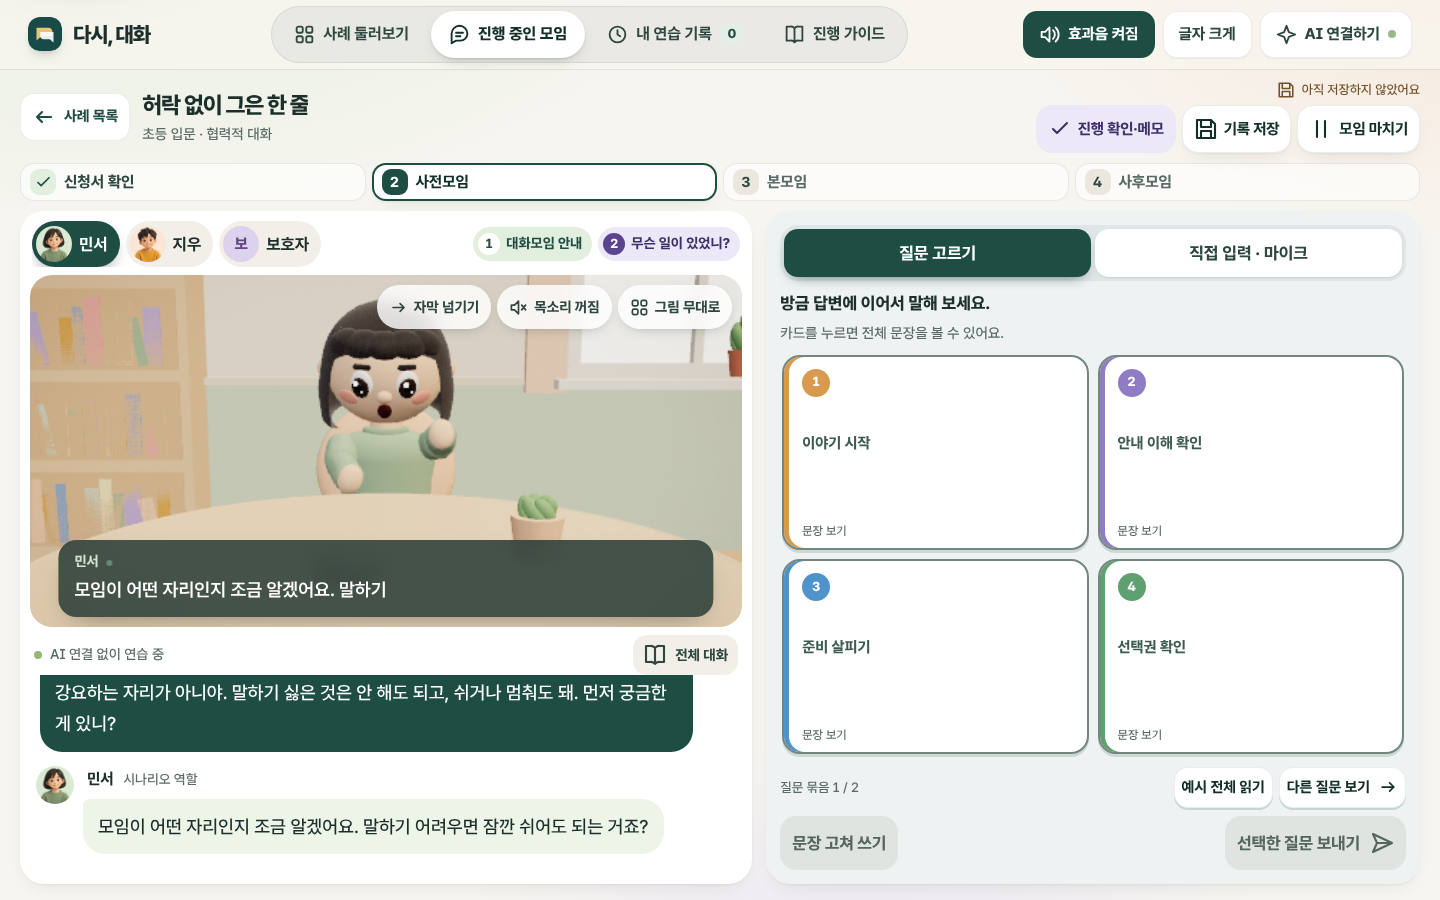
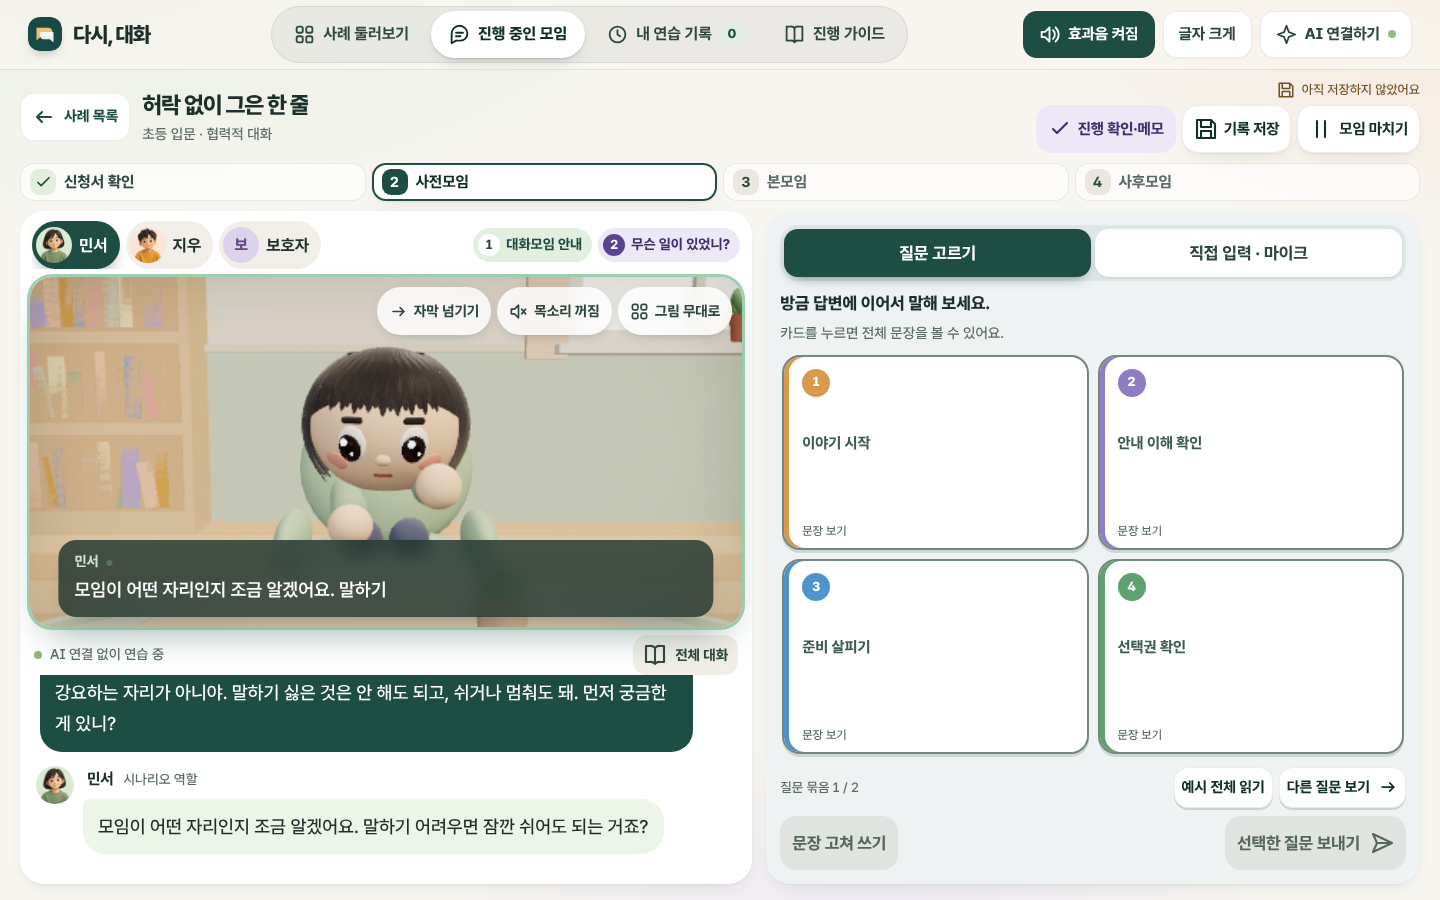
docs: v0.5.0 notes, verification record and fresh screenshots
Claude-Session: https://claude.ai/code/session_018JbLAfXJCc6pfJksY4qfVm

Changed region(s): [[0.0, 0.2489, 0.5312, 0.7156]]

diff --git a/public/version.js b/public/version.js
@@ -1,1 +1,1 @@
-export const VERSION='0.4.0';
+export const VERSION='0.5.0';

diff --git a/docs/VERIFICATION.md b/docs/VERIFICATION.md
@@ -186,3 +186,11 @@
 - 발견해 고친 문제: 3D를 불러오는 동안 사례 목록을 떠나면 크기 0인 화면에 그리며 그래픽 오류가 쏟아져 다음 탐색이 멈춤 → 크기·연결 확인 후에만 그리고, 멈춘 동안 반복을 끊음. 1초가 넘는 프레임을 화질 판단에서 빼서 아주 느린 기기가 화질을 낮추지 못함 → 4초까지 셈.
 - 최종 검토(별도 검토자)에서 찾아 고친 것, 각각 실패하는 검사를 먼저 쓰고 통과시킴: 같은 사례로 새 연습·재개 시 이전 자막·감정이 남음, 3D를 불러오는 사이 그림 무대로 바꾸면 늦게 끝난 3D가 덮어씀, 그림 무대에서 얼굴 윗부분이 잘리고 버튼·자막이 얼굴을 가림(1366×768·1280×720·390·360px), AI 오류 뒤 무대가 "생각 중"에 멈추고 지운 문장이 자막에 남음, 목소리가 누름 밖에서 시작해 iPad에서 막힐 수 있음(누르는 순간 소리 없는 문장으로 음성을 열어 둠), 무대 오류가 앱으로 번질 수 있음, 무대·얼굴 버튼이 44–46px(48px 이상으로)·휴대전화에서 보호자 버튼이 잘림. 긴 답 검사는 실제 3000자로 고침.
 - 한계: SwiftShader는 실제 GPU보다 훨씬 느리므로 "자동" 설정에서는 이 환경의 3D가 곧 그림 무대로 바뀝니다(설계대로의 동작). 3D 검사는 `켜기` 설정이나 실험실의 `noslow`로 실행했습니다. 실제 크롬북·태블릿의 속도, 실제 스피커로 들은 목소리, 실제 AI가 고른 감정의 품질은 확인하지 않았습니다.
+
+## v0.5.0 — 2등신 캐릭터·섬세한 머리카락·살아 있는 화면
+
+- Node 검사 49개 통과. 새로 추가: 7종 모두 2등신(머리+몸 높이 ÷ 머리 높이가 1.8–2.3, 초등 1.97·어른 2.24), 팔은 한 덩어리이며 머리보다 짧음, 머리카락은 둥근 덩어리 없이 가는 가닥 끝 6개 이상.
+- 기존 브라우저 검사 7개 통과(`desktop-room.mjs` 40개 상태 포함). 버튼에 빛이 스치는 효과가 버튼 밖으로 넘치는 문제를 발견해 배경 위치 애니메이션으로 바꿈.
+- `stage-browser.mjs`의 캐릭터(빠른 실행), 장면, 감독, 다듬기, 사례 목록, 연습실, 최종 검토 항목, 새 "살아 있는 무대"(마우스를 따라 보기 — 왼쪽·오른쪽·벗어남, 글을 쓰는 동안 듣기 후 2.5초 뒤 대기) 통과.
+- 생김새 6종과 감정, 첫 화면, 연습실(PC·휴대전화) 화면 사진을 육안 검토.
+- 한계: 이 환경의 소프트웨어 그래픽(SwiftShader)에서는 "자동" 설정의 첫 화면 3D가 몇 초 뒤 느린 기기로 판단되어 삽화로 바뀝니다(설계대로). 실제 기기의 속도는 확인하지 않았습니다.

diff --git a/CHANGELOG.md b/CHANGELOG.md
@@ -1,5 +1,14 @@
 # 변경 기록
 
+## 0.5.0 — 2026-11-19
+
+- 캐릭터를 2등신(머리 하나에 몸 하나)으로 바꿈. 팔꿈치 마디 없이 한 덩어리로 움직이는 짧고 부드러운 팔, 콩 모양 몸통, 목 없이 이어진 큰 머리와 얼굴 아래쪽의 큰 눈.
+- 머리카락을 둥근 덩어리 대신 머리 모양을 따라 붙는 얇은 층으로 다시 만듦. 앞머리·옆머리·뒷머리가 겹치고 끝이 가늘고 고르지 않은 가닥으로 갈라지며, 머리카락 결무늬를 넣음.
+- 대화실을 낮은 찻상과 둥근 안락의자로 바꿔 작은 몸에서도 팔짱·움츠림이 보이게 함(기존 삽화와 같은 구성).
+- 캐릭터가 마우스를 따라 바라보고, 선생님이 글을 쓰거나 질문 카드를 고르면 몸을 기울여 들음. 무대 테두리가 말하는 중에는 초록, 듣는 중에는 연보라로 빛남.
+- 첫 화면을 몰입형으로: 3D 대화실이 첫 카드 전체를 채우고 문구가 그 위에 떠 있음. 사례 카드는 마우스를 따라 기울며 빛이 스치고, 화면이 바뀔 때 차례로 떠오름. 바탕의 오로라가 천천히 흐름. 모두 동작 줄이기에서는 멈춤.
+- 최종 검토 지적 반영: 같은 사례 새 연습의 이전 자막, 3D를 불러오는 사이 그림 무대 전환, 그림 무대 얼굴 가림, AI 오류 뒤 멈춘 무대, iPad 목소리, 무대 오류 격리, 48px 미만 버튼.
+
 ## 0.4.0 — 2026-11-19
 
 - 연습실에 3D 대화 장면 추가. 폭주 구구단(pokju-edu)과 같은 Three.js r187 구성(sRGB·ACES, 그림자, 실내 환경광, 빛 번짐, 색 보정 셰이더, 자동 화질, 문맥 손실 대응)으로 대화실과 점토 인형 캐릭터 7종(기존 학생 그림 6장 + 보호자)을 그림.
